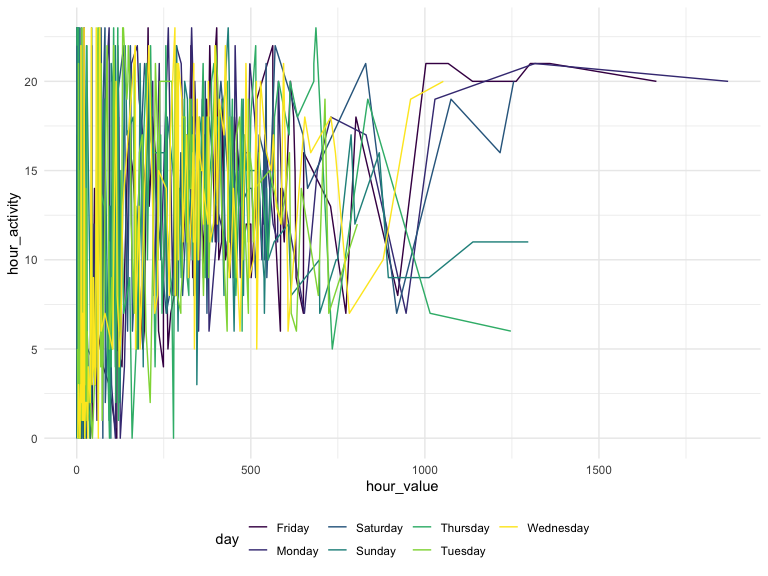
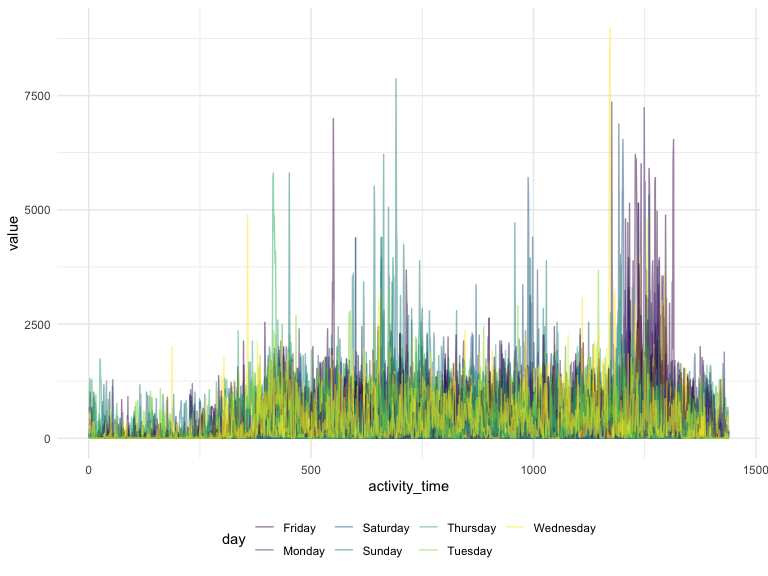
changes p3, lasyt part

diff --git a/p8105_hw3_ob2305.md b/p8105_hw3_ob2305.md
@@ -365,8 +365,6 @@ chf = read_csv(file = "./data/accel_data.csv") %>%
     ## See spec(...) for full column specifications.
 
 ``` r
-view(chf)
-
 # describe data
 ```
 
@@ -376,12 +374,12 @@ create a total activity variable for each day, and create a table
 showing these totals. Are any trends apparent?
 
 ``` r
-chf = chf %>% 
+chf %>% 
   group_by(week, day) %>% 
   summarize(
-    total_activity = sum(value)
+    total_activity_per_day = sum(value)
   ) %>% 
-  ggplot(aes(x = week, y = total_activity, color = day))+
+  ggplot(aes(x = week, y = total_activity_per_day, color = day))+
   geom_line()
 
 # describe
@@ -395,21 +393,24 @@ in words any patterns or conclusions you can make based on this graph.
 ``` r
 hour_data = 
   chf %>%
-  group_by(week, day) %>%
+  group_by(week, day, day_id) %>%
   mutate(
-   activity_time = as.numeric(activity_time)) %>% 
-  mutate(
-    hour_activity = (activity_time)%/%60) %>%
+   activity_time = as.numeric(activity_time),
+    hour_activity = (activity_time)%/%60)
+
+hour_data_2 = hour_data %>% 
   group_by(hour_activity, day, week) %>%
   summarize(
-    hour_value = (sum(value))%/%60)
+    activity_value_per_hour = (sum(value))%/%60) %>% head()
 ```
 
 ``` r
 hour_data %>% 
   filter(hour_activity != "24") %>% 
-  ggplot(aes(x = hour_value, y = hour_activity, color = day))+
-  geom_line()
+  ggplot(aes(x = activity_time, y = value, color = day, group = day_id))+
+  geom_line(alpha = .5)
 ```
 
 <img src="p8105_hw3_ob2305_files/figure-gfm/unnamed-chunk-16-1.png" width="90%" />
+
+make graph that represends 35 lines, color by day of the week
